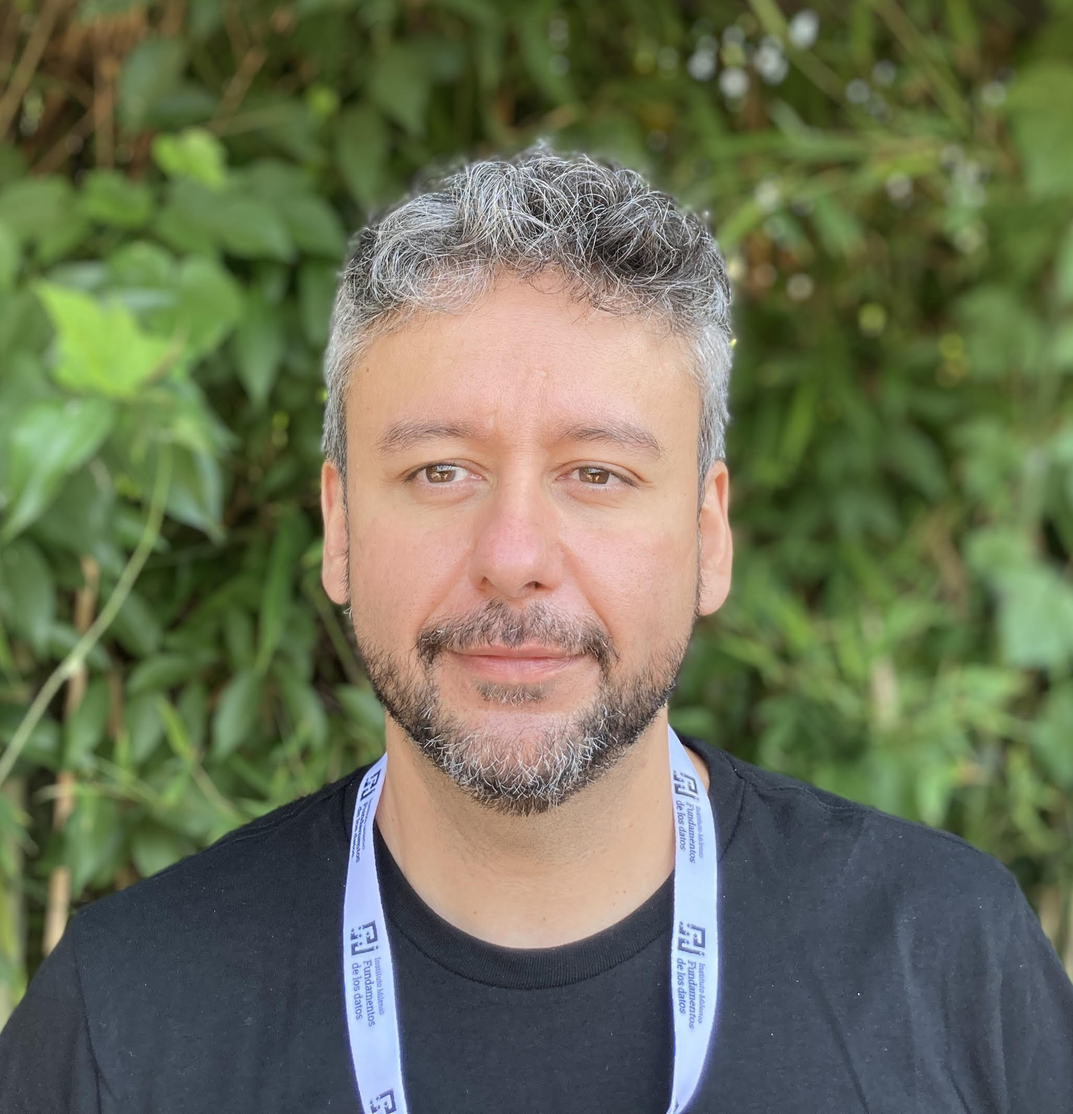
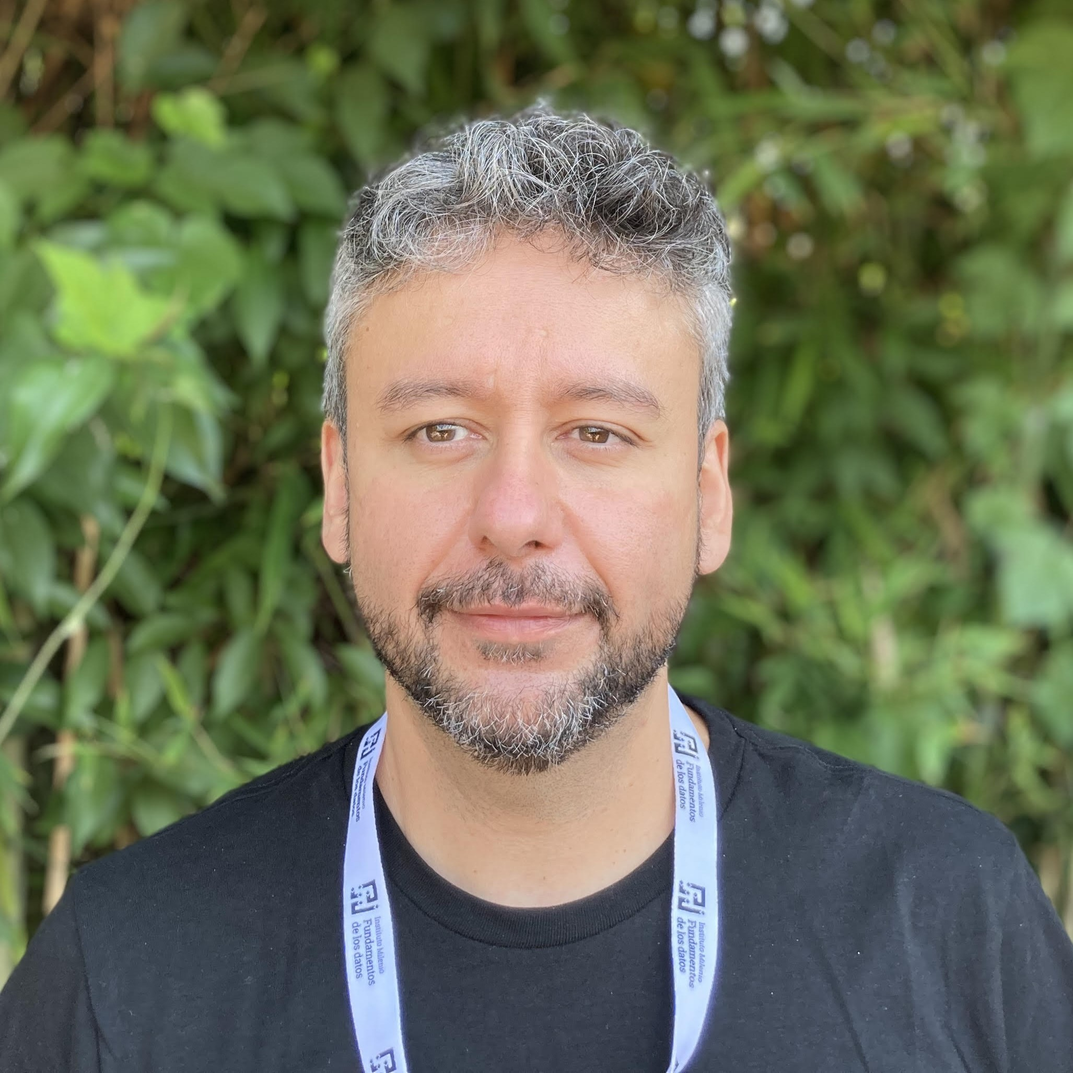
Update people

diff --git a/v/people.html b/v/people.html
@@ -4,7 +4,7 @@
     <h2>Professors</h2>
     <div>
         <span>
-          <img src="/assets/photos/placeholder.png">
+          <img src="/assets/photos/marcelo-arenas.jpeg">
           <h3>Marcelo Arenas</h3>
           <a href="mailto:marcelo.arenas1@gmail.com">marcelo.arenas1@gmail.com</a>
           <div>
